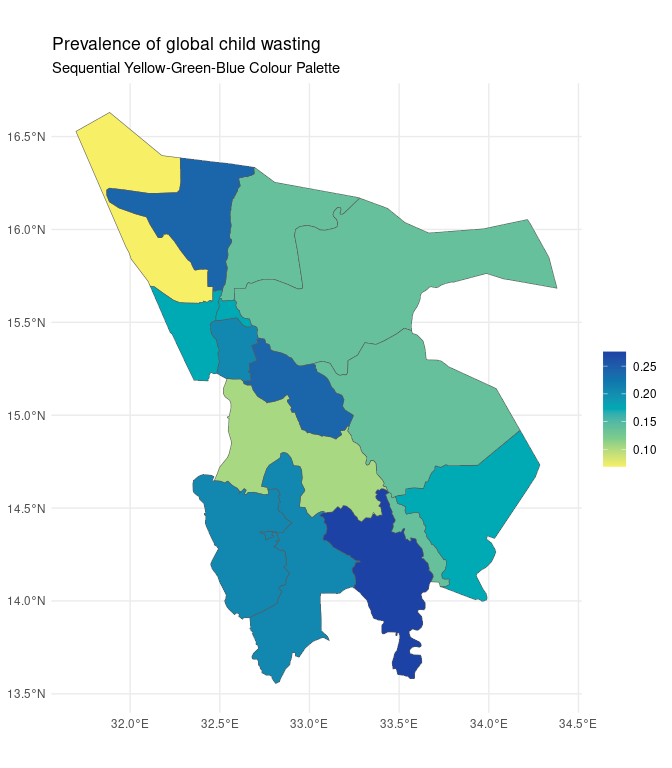
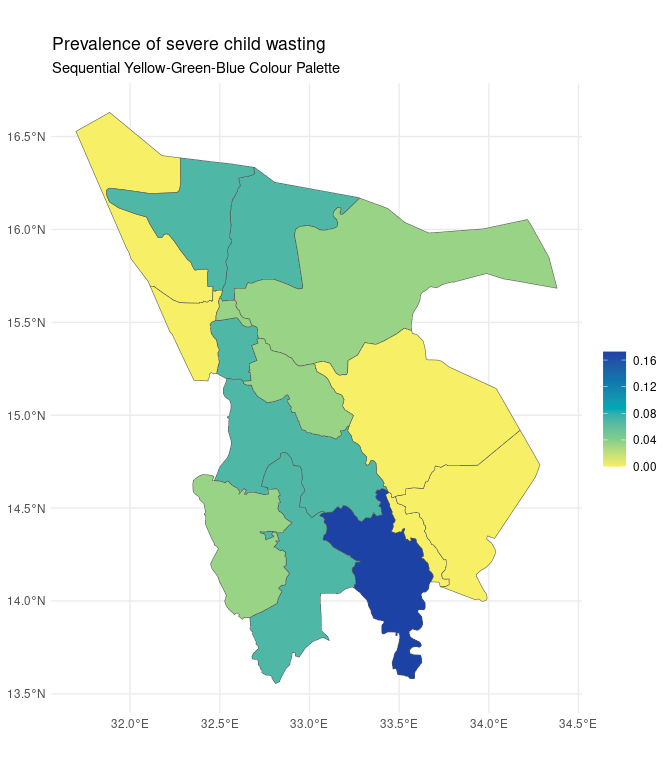
update README

Changed region(s): [[0.1562, 0.1875, 0.8438, 0.9062], [0.25, 0.0312, 0.5, 0.0625], [0.9375, 0.4688, 1.0, 0.625]]

diff --git a/README.md b/README.md
@@ -269,13 +269,13 @@ ggplot(data = nut_survey_map) +
 
 ### Yellow-Green-Blue
 ggplot(data = nut_survey_map) +
-  geom_sf(mapping = aes(fill = muac_gam)) +
+  geom_sf(mapping = aes(fill = muac_sam)) +
   scale_fill_gradientn(
     name = "",
     colours = create_palette_sequential(n = 5, name = "ylgnbu")
   ) +
   labs(
-    title = "Prevalence of global child wasting",
+    title = "Prevalence of severe child wasting",
     subtitle = "Sequential Yellow-Green-Blue Colour Palette"
   ) +
   theme_minimal()
